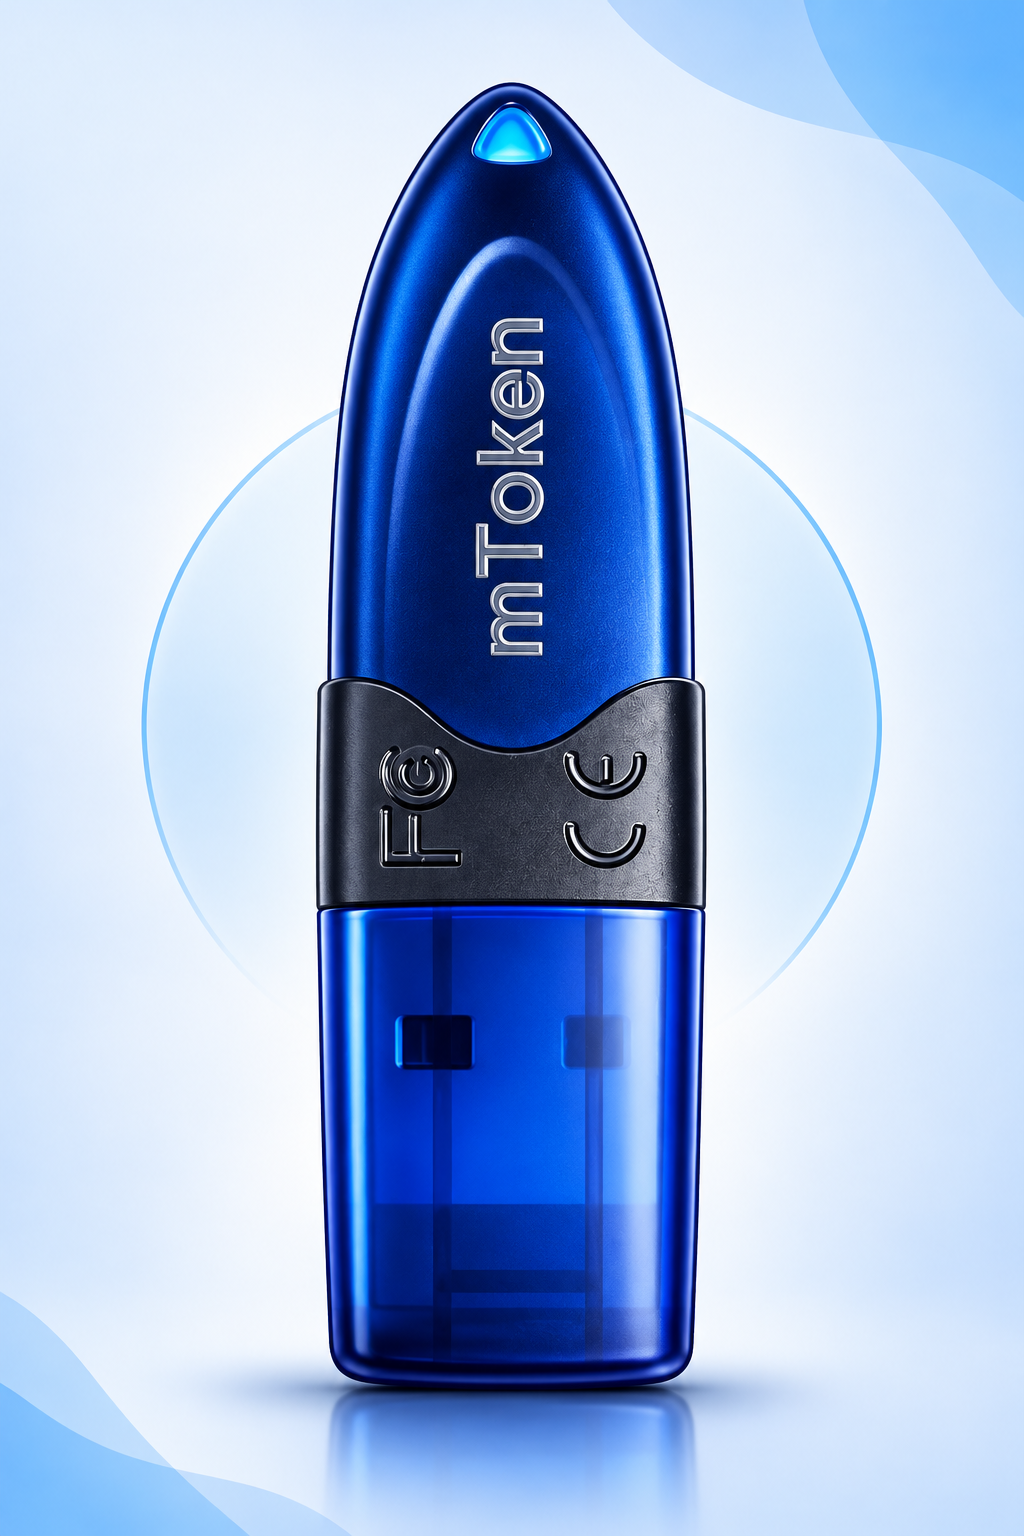
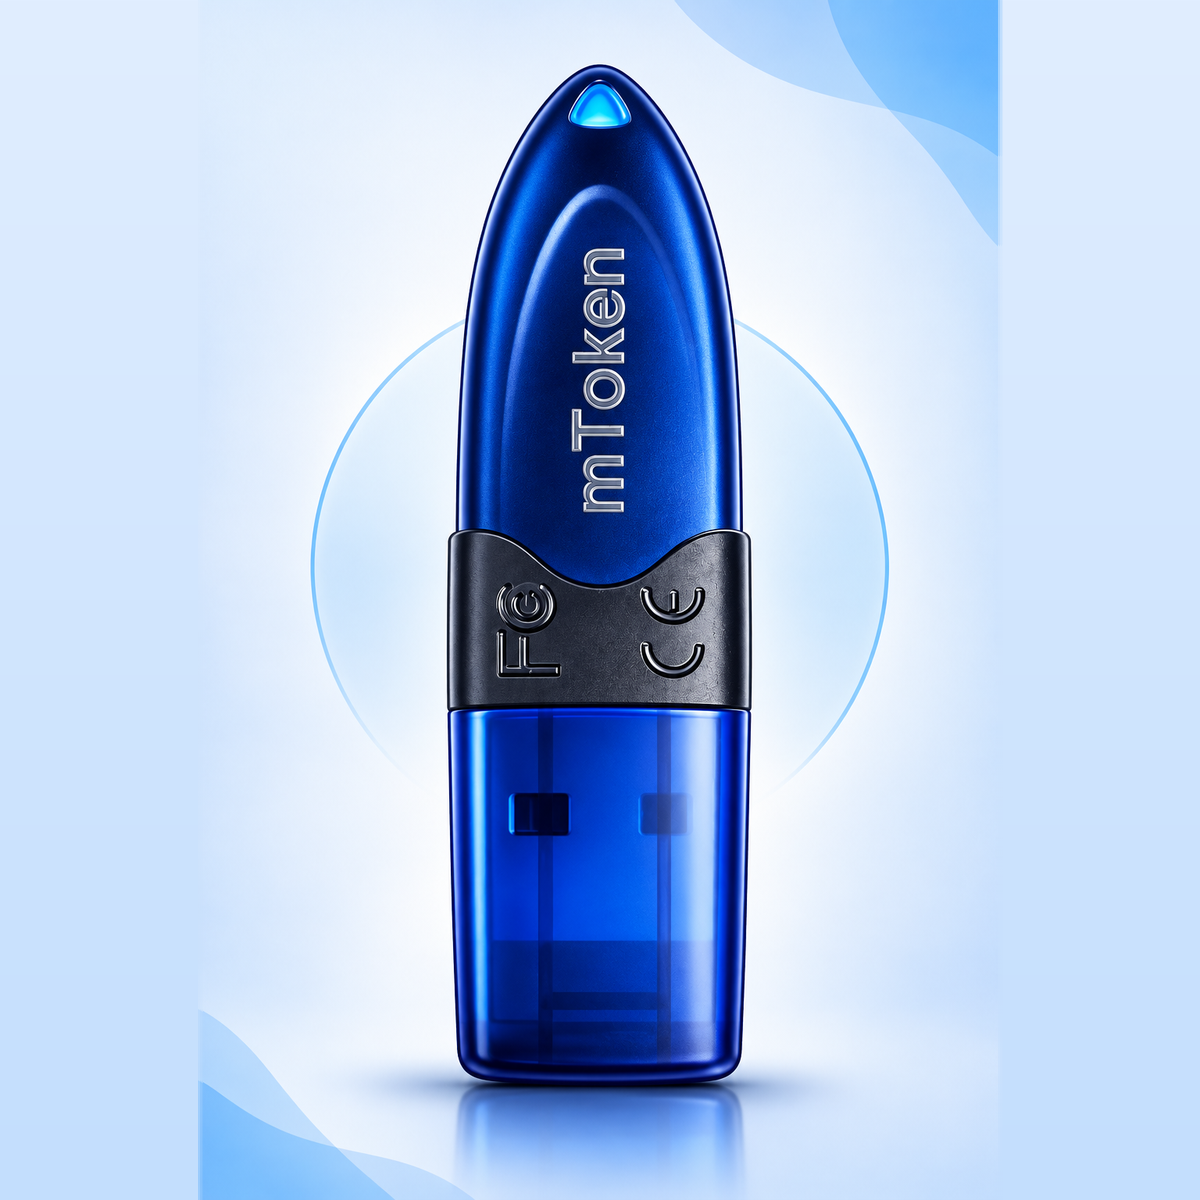
update

diff --git a/frontend/src/pages/ProductDetail.js b/frontend/src/pages/ProductDetail.js
@@ -32,7 +32,7 @@ export default function ProductDetail() {
       />
       <button onClick={() => nav("/products")} className="mb-6 inline-flex items-center gap-1 text-sm font-semibold text-purple-700"><ArrowLeft className="h-4 w-4" /> All Products</button>
       <div className="grid grid-cols-1 items-start gap-8 md:grid-cols-2 lg:gap-10">
-        <div className="product-detail-image mx-auto flex aspect-square w-full max-w-[560px] min-w-0 items-center justify-center overflow-hidden rounded-3xl p-5 sm:p-8 shadow-sm">
+        <div className="product-detail-image mx-auto flex aspect-square w-full max-w-[500px] min-w-0 items-center justify-center overflow-hidden rounded-3xl shadow-sm">
           <img
             src={product.imageUrl || "/img/epass2003-token.png"}
             alt={product.name}
@@ -40,7 +40,7 @@ export default function ProductDetail() {
               e.currentTarget.onerror = null;
               e.currentTarget.src = "/img/epass2003-token.png";
             }}
-            className="h-full w-full object-contain object-center rounded-xl"
+            className="h-full w-full object-cover object-center transition-transform duration-500 hover:scale-103"
           />
         </div>
         <div className="min-w-0">

diff --git a/frontend/src/components/ProductCard.js b/frontend/src/components/ProductCard.js
@@ -28,7 +28,7 @@ export function ProductCard({ product, onBuy, index = 0 }) {
       </div>
 
       {/* Image Preview */}
-      <div className="product-card-image relative mb-4 flex h-52 w-full shrink-0 items-center justify-center rounded-2xl overflow-hidden p-3.5 shadow-sm">
+      <div className="product-card-image relative mb-4 flex h-52 w-full shrink-0 items-center justify-center rounded-2xl overflow-hidden shadow-xs">
         <img
           src={product.imageUrl || "/img/epass2003-token.png"}
           alt={`${product.name} USB token`}
@@ -37,7 +37,7 @@ export function ProductCard({ product, onBuy, index = 0 }) {
             e.currentTarget.onerror = null;
             e.currentTarget.src = "/img/epass2003-token.png";
           }}
-          className="h-full w-full object-contain object-center rounded-xl transition-transform duration-300 ease-out group-hover:scale-105"
+          className="h-full w-full object-cover object-center transition-transform duration-500 ease-out group-hover:scale-105"
         />
       </div>
 

diff --git a/frontend/src/index.css b/frontend/src/index.css
@@ -79,12 +79,12 @@ a:focus-visible, button:focus-visible, [role="button"]:focus-visible {
 .hero-token-image { display: block; width: 100%; height: auto; }
 .product-grid { align-items: stretch; }
 .product-card-image {
-  background: linear-gradient(180deg, #f8fafc 0%, #f1f5f9 100%);
-  border: 1px solid #e2e8f0;
+  background: radial-gradient(circle at 50% 50%, #f4f8fe 0%, #e1eefe 100%);
+  border: 1px solid rgba(219, 234, 254, 0.8);
 }
 .product-detail-image {
-  background: linear-gradient(180deg, #f8fafc 0%, #f1f5f9 100%);
-  border: 1px solid #e2e8f0;
+  background: radial-gradient(circle at 50% 50%, #f4f8fe 0%, #e1eefe 100%);
+  border: 1px solid rgba(219, 234, 254, 0.8);
 }
 .dark-mesh {
   background:
